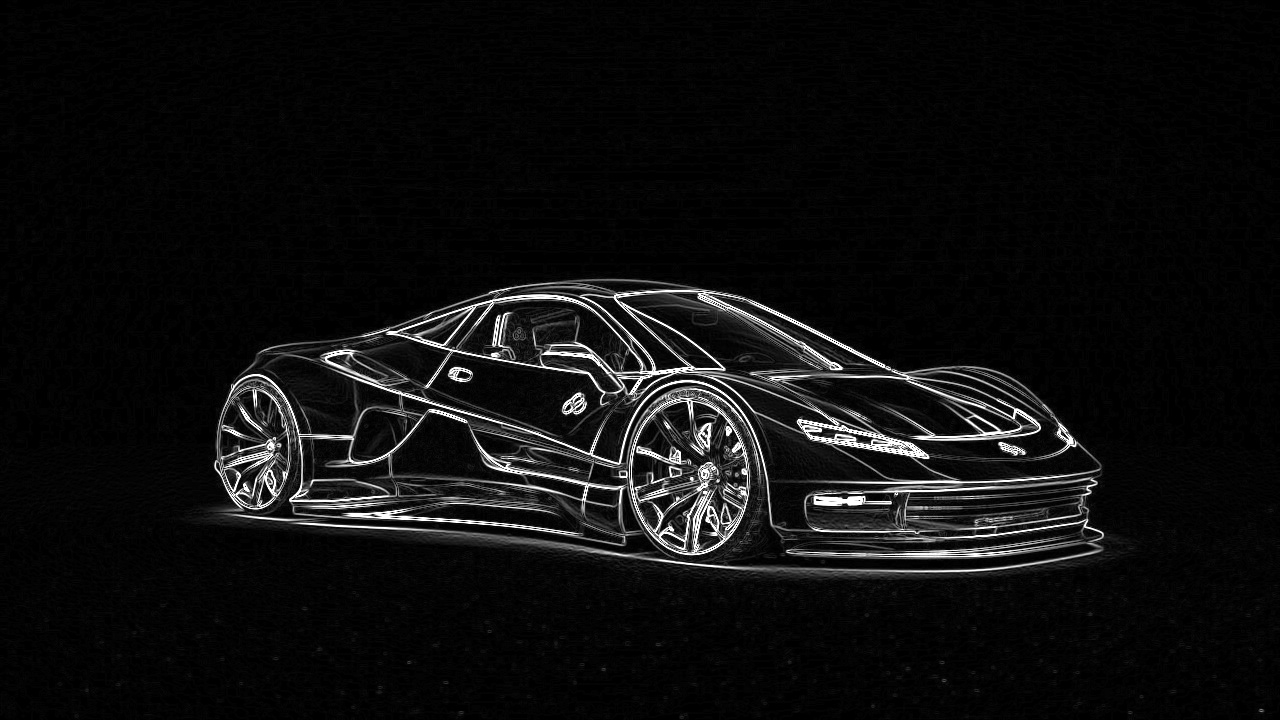
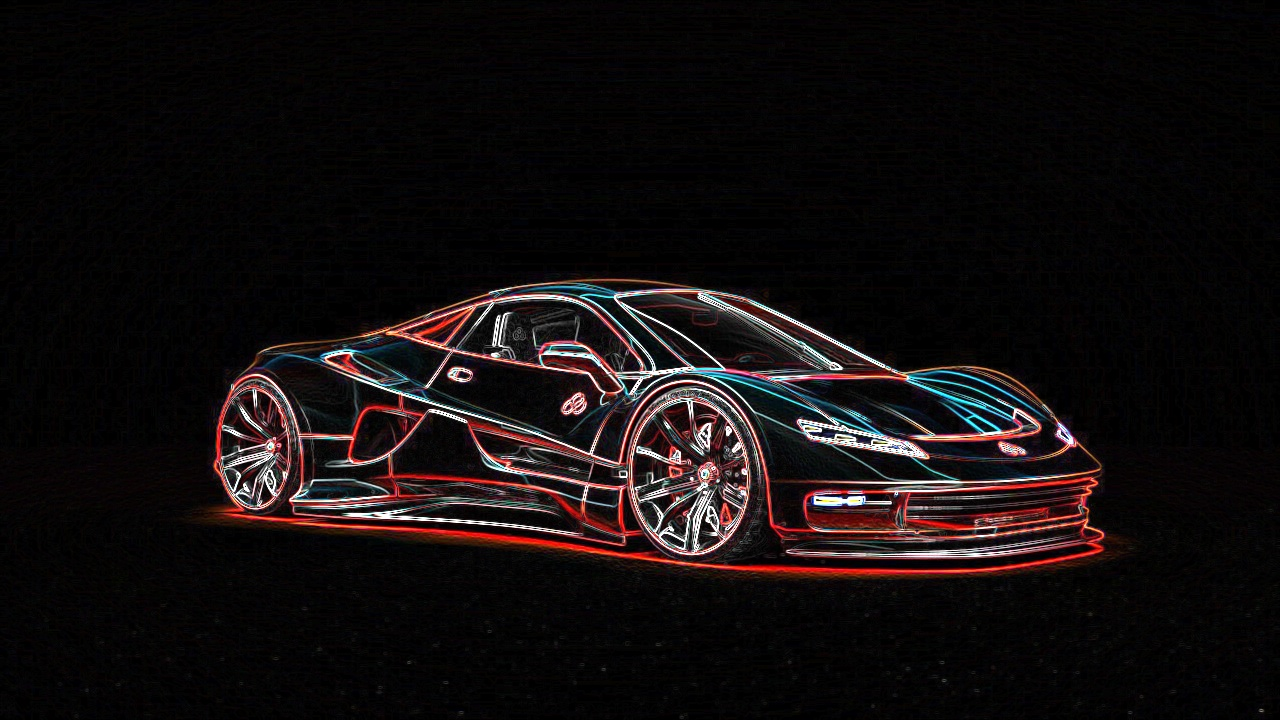
New DIP Lab codes added

Changed region(s): [[0.1562, 0.3667, 0.875, 0.825], [0.625, 0.4583, 0.6562, 0.4889]]

diff --git a/Python-LAB2025/Lab-ImageProcessing/EdgeGradient.py b/Python-LAB2025/Lab-ImageProcessing/EdgeGradient.py
@@ -5,8 +5,7 @@ im=cv2.imread("Image10.jpg")
 print("The orginal image:")
 
 cv2.imshow("OG",im)
-im=cv2.cvtColor(im,cv2.COLOR_BGR2GRAY)
-#(guys, above code is not importent you can convert to gray when read)
+#im=cv2.cvtColor(im,cv2.COLOR_BGR2GRAY) #(guys, above code is not importent you can convert to gray when read)
 
 sobelx=cv2.Sobel(im,cv2.CV_64F,0,1,ksize=3)
 sobely=cv2.Sobel(im,cv2.CV_64F,1,0,ksize=3)

diff --git a/Python-LAB2025/Lab-ImageProcessing/EdgeCanny.py b/Python-LAB2025/Lab-ImageProcessing/EdgeCanny.py
@@ -1,0 +1,10 @@
+import cv2
+
+im=cv2.imread("Image10.jpg")
+print("The Orginal Image:")
+cv2.imshow("OG Image",im)
+EdgeCanny=cv2.Canny(im,threshold1=100,threshold2=200)
+
+print("Edges after using Canny:")
+cv2.imshow("Canny",EdgeCanny)
+cv2.imwrite("EdgeCanny.jpg",EdgeCanny)

diff --git a/Python-LAB2025/Lab-ImageProcessing/Threshold.py b/Python-LAB2025/Lab-ImageProcessing/Threshold.py
@@ -1,0 +1,10 @@
+import cv2
+
+im=cv2.imread("Image10.jpg",0)
+print("The orginal image:")
+cv2.imshow("OG",im)
+
+th,img=cv2.threshold(im,120,255,cv2.THRESH_BINARY)
+print("The Threshold image:")
+cv2.imshow("Threshold Image",img)
+cv2.imwrite("Threshold.jpg",img)
